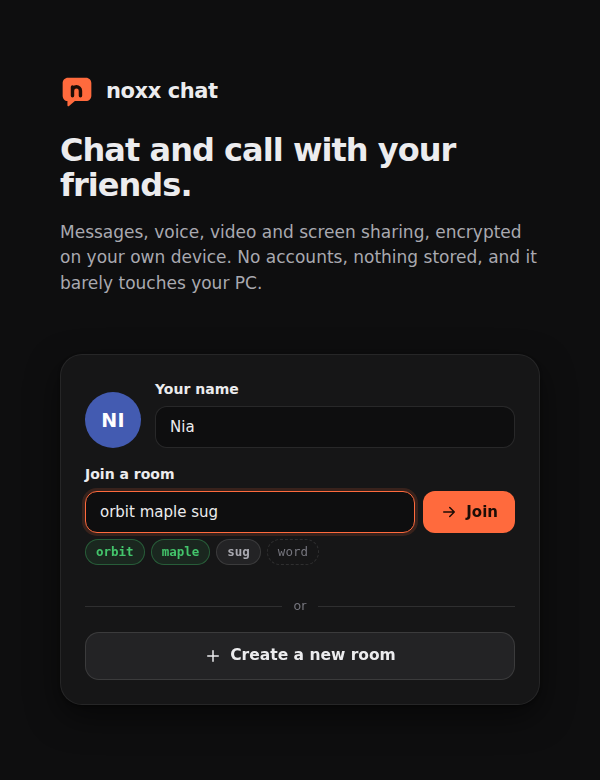
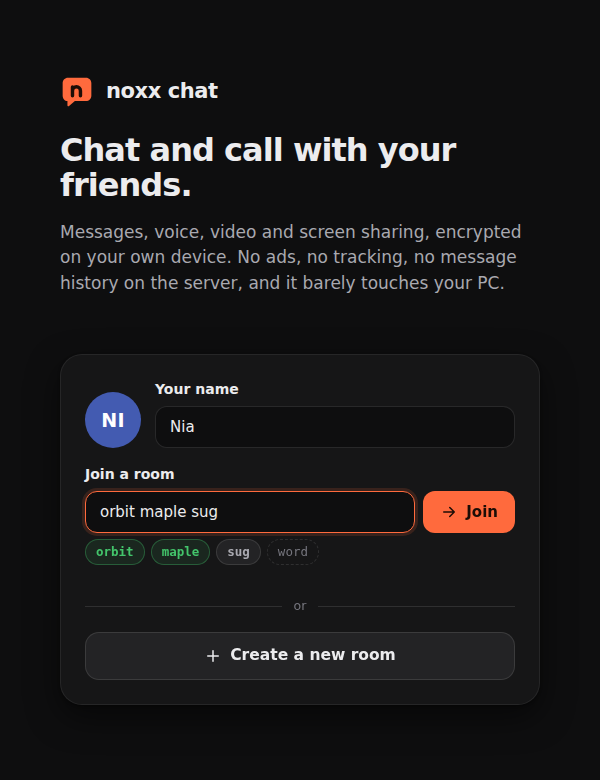
Update for 0.7.0

Changed region(s): [[0.12, 0.3077, 0.9, 0.3692]]

diff --git a/PRIVACY.md b/PRIVACY.md
@@ -1,6 +1,6 @@
 # Privacy Policy
 
-**Effective: 2 October 2026**
+**Effective: 3 October 2026**
 
 **The short version:** N0xx Chat is built so that nobody can read your messages or calls. That
 includes us (Nox Labs) and whoever runs your server. There are no analytics and no tracking, and
@@ -27,10 +27,12 @@ The app stores its settings locally on your device:
   and camera, and your preferences;
 - the server address you entered;
 - if a server uses accounts, your sign-in token for that server (not your password);
+- unsent drafts, the people you've blocked, rooms you've muted, and your Do Not Disturb setting;
 - if **Remember recent rooms** is on (Settings → Privacy): recent room names, codes and servers.
 
-You can clear recent rooms in Settings → Privacy & safety, and remove everything by uninstalling the
-app. Screen recordings are saved on your own device (in the desktop app, in your Videos folder under
+You can clear recent rooms and unblock people in Settings → Privacy & safety, and remove everything
+by uninstalling the app. Blocking is private: the person isn't told, and nothing about it is sent
+anywhere. Screen recordings are saved on your own device (in the desktop app, in your Videos folder under
 "noxx chat") and are never uploaded. Recordings contain your screen, your microphone and your
 computer's sound. They never include other people's voices, cameras or screens from the app.
 
@@ -45,13 +47,16 @@ host turns it off). If you make an account, that server stores:
 - scrambled copies of your sign-in tokens, so your devices stay signed in for up to 60 days.
 
 This is kept in one file on the host's computer, and nowhere else. The server's admins can see the
-list of usernames and when they were last used, remove accounts and reset passwords. They can't see
-your password, your messages or anything else you send.
+list of usernames, who is online and when accounts were last used, remove accounts and reset
+passwords. They can't see your password, your messages or anything else you send. An admin can
+also give the server a name and a short welcome note, which anyone who opens the server's link
+can see.
 
 When you're signed in, the server tells the people in a room your username, so they can tell it's
 really you. It also means the server can tell which account is connected to which room identifier,
-and when (it still can't see the room's name, code or contents). To delete your account, ask the
-server's admin to remove it.
+and when (it still can't see the room's name, code or contents). To delete your account, use
+Settings → Account → Delete my account (or ask the server's admin to remove it). It's removed from
+the server straight away.
 
 ## What a server can see
 
@@ -76,7 +81,9 @@ you trust.
 ## What other people in a room can see
 
 Everyone who has a room's code can read the room's messages and see your display name, profile and
-voice or camera status. When someone joins, another member's device may share recent messages with
+voice or camera status, plus any pictures you send, your votes in polls and the messages you pin.
+Pictures are shrunk on your device and sent end-to-end encrypted like messages; they're never
+uploaded anywhere and aren't passed on to people who join later. When someone joins, another member's device may share recent messages with
 them (up to the last 100). Nothing is kept once everyone has left, and disappearing messages are
 removed from everyone's screen when their timer runs out.
 

diff --git a/THIRD-PARTY-NOTICES.md b/THIRD-PARTY-NOTICES.md
@@ -78,6 +78,7 @@ license ([LICENSE](LICENSE)) doesn't change them.
 | atk | 0.18.2 | MIT | Copyrights in the gtk-rs Project project are retained by their contributors. |
 | atk-sys | 0.18.2 | MIT | Authors: The gtk-rs Project Developers |
 | atomic-waker | 1.1.2 | Apache-2.0 OR MIT | Copyright (c) 2016 Alex Crichton<br>Copyright (c) 2017 The Tokio Authors |
+| auto-launch | 0.5.0 | MIT | Copyright (c) 2022 zzzgydi |
 | autocfg | 1.5.1 | Apache-2.0 OR MIT | Copyright (c) 2018 Josh Stone |
 | base64 | 0.21.7 | MIT OR Apache-2.0 | Copyright (c) 2015 Alice Maz |
 | base64 | 0.22.1 | MIT OR Apache-2.0 | Copyright (c) 2015 Alice Maz |
@@ -135,7 +136,9 @@ license ([LICENSE](LICENSE)) doesn't change them.
 | derive_more | 2.1.1 | MIT | Copyright (c) 2016 Jelte Fennema |
 | derive_more-impl | 2.1.1 | MIT | Copyright (c) 2016 Jelte Fennema |
 | digest | 0.10.7 | MIT OR Apache-2.0 | Copyright (c) 2017 Artyom Pavlov |
+| dirs | 4.0.0 | MIT OR Apache-2.0 | Copyright (c) 2018-2019 dirs-rs contributors |
 | dirs | 7.0.0 | MIT OR Apache-2.0 | Copyright (c) 2018-2019 dirs-rs contributors |
+| dirs-sys | 0.3.7 | MIT OR Apache-2.0 | Copyright (c) 2018-2019 dirs-rs contributors |
 | dirs-sys | 0.5.0 | MIT OR Apache-2.0 | Copyright (c) 2018-2019 dirs-rs contributors |
 | dispatch2 | 0.3.1 | Zlib OR Apache-2.0 OR MIT | Authors: Mads Marquart <mads@marquart.dk>, Mary <mary@mary.zone> |
 | displaydoc | 0.2.7 | MIT OR Apache-2.0 | Authors: Jane Lusby <jlusby@yaah.dev> |
@@ -369,6 +372,7 @@ license ([LICENSE](LICENSE)) doesn't change them.
 | tauri-codegen | 2.7.0 | Apache-2.0 OR MIT | Copyright (c) 2017 - Present Tauri Apps Contributors |
 | tauri-macros | 2.7.0 | Apache-2.0 OR MIT | Copyright (c) 2017 - Present Tauri Apps Contributors |
 | tauri-plugin | 2.7.0 | Apache-2.0 OR MIT | Authors: Tauri Programme within The Commons Conservancy |
+| tauri-plugin-autostart | 2.6.0 | Apache-2.0 OR MIT | Copyright (c) 2017 - Present Tauri Apps Contributors |
 | tauri-plugin-deep-link | 2.6.0 | Apache-2.0 OR MIT | Copyright (c) 2017 - Present Tauri Apps Contributors |
 | tauri-plugin-global-shortcut | 2.4.0 | Apache-2.0 OR MIT | Copyright (c) 2017 - Present Tauri Apps Contributors |
 | tauri-plugin-notification | 2.5.0 | Apache-2.0 OR MIT | Copyright (c) 2017 - Present Tauri Apps Contributors |
@@ -424,6 +428,7 @@ license ([LICENSE](LICENSE)) doesn't change them.
 | webview2-com | 0.39.1 | MIT |  |
 | webview2-com-macros | 0.8.1 | MIT |  |
 | webview2-com-sys | 0.39.1 | MIT |  |
+| winapi | 0.3.9 | MIT OR Apache-2.0 | Copyright (c) 2015-2018 The winapi-rs Developers |
 | winapi-util | 0.1.11 | Unlicense OR MIT | Copyright (c) 2017 Andrew Gallant |
 | window-vibrancy | 0.8.1 | Apache-2.0 OR MIT | Copyright (c) 2020-2022 Tauri Programme within The Commons Conservancy |
 | windows | 0.61.3 | MIT OR Apache-2.0 | Copyright (c) Microsoft Corporation. |
@@ -458,6 +463,7 @@ license ([LICENSE](LICENSE)) doesn't change them.
 | windows_x86_64_msvc | 0.53.1 | MIT OR Apache-2.0 | Copyright (c) Microsoft Corporation. |
 | winnow | 0.5.40 | MIT |  |
 | winnow | 1.0.4 | MIT |  |
+| winreg | 0.10.1 | MIT | Copyright (c) 2015 Igor Shaula |
 | winreg | 0.55.0 | MIT | Copyright (c) 2015 Igor Shaula |
 | writeable | 0.6.4 | Unicode-3.0 | COPYRIGHT AND PERMISSION NOTICE<br>Copyright © 2020-2024 Unicode, Inc. |
 | wry | 0.57.0 | Apache-2.0 OR MIT | Copyright (c) 2020-2023 Ngo Iok Ui & Tauri Programme within The Commons Conservancy |

diff --git a/README.md b/README.md
@@ -24,17 +24,24 @@ people know it's really you, but even the server can't read what you say.
 
 <img src="docs/profile.png" width="260" align="right" alt="A profile card">
 
-- Chat with replies, reactions, edits, spoilers and **disappearing messages**
+- Chat with replies, reactions, edits, spoilers, quotes and **disappearing messages**
+- **Pictures:** paste, drop or attach one. It's shrunk on your PC first and sent encrypted
+- **Polls** (`/poll Pizza or tacos? | pizza | tacos`), **pinned messages** and **search** (Ctrl+F)
+- Type `@` to mention someone, `:` for emoji and `/` for commands like `/roll 2d6`, `/me` and
+  `/shrug` (Ctrl+/ lists them all)
 - Voice with mute, deafen, **push to talk** (works while you're in a game), a call timer and
   per-person volume (right click someone)
-- Notifications for @mentions (or every message, or none)
+- Notifications for @mentions (or every message, or none), **Do Not Disturb**, and per-room mute
+- **Block** someone: their messages are hidden and you can't hear them. Only you know
 - Camera and screen sharing up to **1440p / 60 fps**, with stereo sound for games and music
 - **Point at someone's shared screen.** Everyone watching sees your pointer and clicks.
   Scroll to zoom into a share.
 - **Built-in screen recorder** (Windows) that saves straight to `Videos\noxx chat` and runs on
   your graphics card
 - Profiles with a picture, colour, status and a short "about me"
-- Rename rooms, switch between them from the side rail, pick your own accent colour
+- Rename rooms, switch between them from the side rail (Alt+↑/↓), pick your own accent colour,
+  text size and 12/24-hour clock. Half-written messages are kept per room
+- Stays in the tray when you close it and can start with your computer (Windows and Mac)
 - Rooms use 4-word codes like `orbit maple sugar velvet` instead of long random links
 - **Accounts on your server:** a verified @username, so nobody can pretend to be you. Whoever runs
   the server can make invite codes, remove people and reset passwords from inside the app
